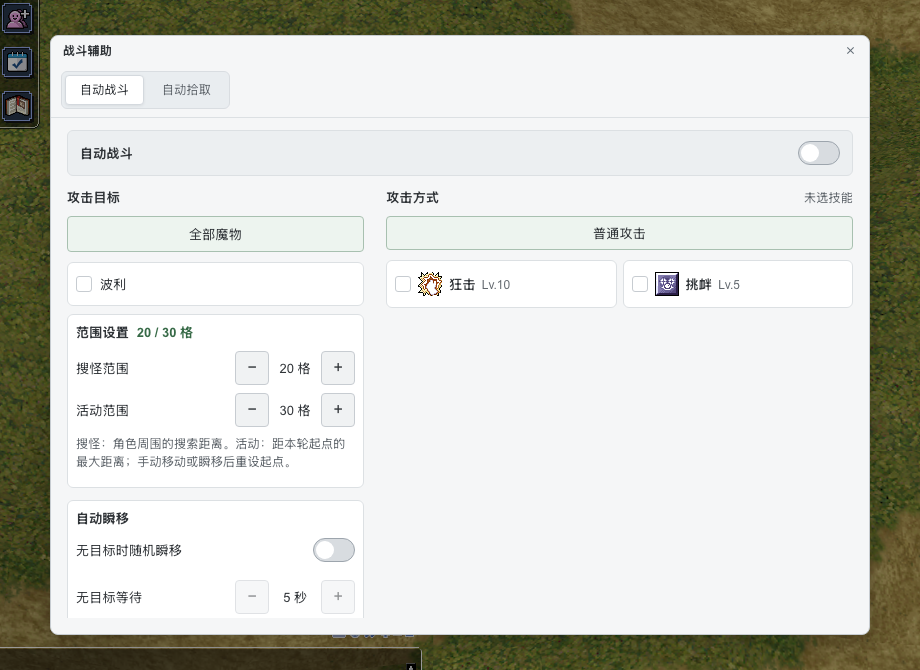
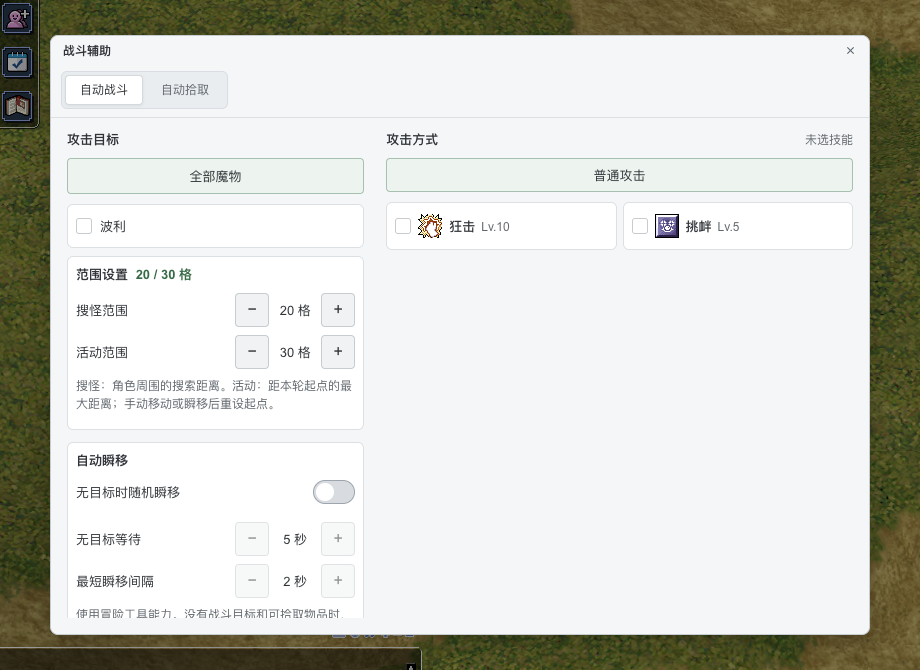
docs(documentation): Update documentation and maintenance guidance
Original commit messages (chronological):

ddd3de36bf8021a4e837648a7eac98ab1073e32b
docs(changelog): Record verified cross-repository fixes

ba3d1663fab05cf2a1b543b88e50dc6b35caf040
docs(changelog): Record desktop combat quick controls

bee957549388415624dabdd9d80a2e7befb103ad
docs(changelog): Record combat icon refinements

304eda198a75fe76affe00c2419151ef8a16eeb9
docs(readme): Refresh the combat settings screenshot

diff --git a/changelog/2026/10/2026-10-23.md b/changelog/2026/10/2026-10-23.md
@@ -1,44 +1,61 @@
 # 2026-10-23
 
+## 新增
+
+- `[root/client/server/api]` 恢复经典初心者教学、职业手册与任务；通过 HAPPYRO_NEW_PLAYER_START=ship|classic 选择新建人类角色的沉船或经典出生点，默认 classic，出生与初始复活点同步，杜兰流程保持独立。
+
 ## 优化
 
+- `[client/gateway]` 新增脚本文字最低对比度环境变量 `CLIENT_SCRIPT_TEXT_MIN_CONTRAST`，默认 4.5、范围 4.5–7；自动修正始终开启，无法达到目标时使用最佳黑白端点。
+- `[root]` 为 52 项客户端环境默认值补齐原生与 Docker 模板、Compose 变量映射和启动配置透传；新增配置使用说明与部署契约检查。
 - `[client/gateway]` 52 项客户端默认设置统一由环境变量配置，PWA 配置定义作为唯一默认值来源；保留浏览器个人设置优先级，初始化、恢复默认和镜头重置读取同一配置。Gateway 动态提供运行时配置，完整前端构建不再覆盖部署值；渲染比例直接读取图形偏好，修复首次进入时默认比例未实际生效的问题。
 - `[client]` 手机和平板的横屏、竖屏默认镜头各拉近一档（15）；手机默认距离改为 95/170，平板改为 125/155，桌面默认值不变。
 - `[client]` 自动战斗默认开启无目标随机瞬移，无目标等待与最短瞬移间隔均默认设为 2 秒。
-
-- `[root]` 为 52 项客户端环境默认值补齐原生与 Docker 模板、Compose 变量映射和启动配置透传；新增配置使用说明与部署契约检查。
-
 - `[client]` 桌面冒险工具的物品与 Zeny 发放改为弹窗输入，沿用亮色风格及同类控件圆角；支持直接输入和加减调整，确认期间禁止重复提交。
 - `[client]` 物品数量与 Zeny 金额分别保留草稿，切换物品、页签及取消弹窗不清空；关闭冒险工具后重置为物品数量 1、Zeny 空值。
 - `[client]` Zeny 加减按钮调整为「-100万」「-10万」「+10万」「+100万」；空值按 0 参与加减，空值、0 及其他无效金额不能发放。
 
 ## 修复
 
-- `[root]` 以经典修炼场作为默认出生并同步部署配置；补齐官方地图别名、训练场安装工具、NPC 导航纠正、任务翻译源及专题资源／无头验收记录。
-
-- `[root]` 为 API 和 Gateway 配置统一 APP_TIMEZONE（默认 Asia/Shanghai），记录 UTC 数据语义与显示时区，不迁移历史数据。
-
+- `[client]` 九职业实机转职发现职业等级回包未同步角色实体，外观重建可能把 Job 1 显示为旧 Job 10；同步实体等级，保持转职后界面与服务端一致。
+- `[root/client/server/api]` 补齐 115 个经典 NPC 与两名转职 NPC 的导航关联，按地图服实测修正可疑男子及 45 项旧导航外观编号；删除学院接待员误删经典任务的遗留逻辑，跨流程交谈后可正常交付波利任务。
+- `[root/client/api]` 最终复审修正官方共享场景地图的支持标记、经典地图预览映射及 new_5-4 中文名；桌面加载图限定当前官方八张资源，声望图片异步加载不再产生 undefined 请求。
+- `[root/client/server/api]` 逐句审校经典训练场及九职业 NPC，统一人名、职业与物品术语，润色问卷结果；修正两份任务表各 22 项说明并同步 NPC 目录。
+- `[server]` 经典新手全分支代码审查，修复跆拳／飞艇／天津町旧出口、任务登记时序、离场任务清理、奖励容量检查及误导对白。
+- `[root/client/server]` 移除覆盖经典教官的旧迁移 NPC 和历史进度兼容段，修正训练等级取消传送、更换手册脱掉全部装备、NPC 与职业测验英文及新手任务名称／击杀提示。
+- `[root/client/server/api]` 训练场完整实机验收补齐 143 个官方假人外观映射和 26 个 SPR/ACT，修复错误魔物外观；个人仓库打开前关闭 NPC 对话，训练 NPC 名称及公会仓库标题统一中文，同步 NPC 目录。
 - `[client]` 修复攻击目标消失时的空引用，隔离战斗/UI 封包回调异常，避免丢失后续半包触发误断线；目标消失后自动战斗继续寻找目标。
-
+- `[root/client/api]` 安装三张训练场官方地图及缺失依赖，修复训练教官传送后缺少 tra_fild01/02/03.rsw 的问题；地图支持判断按官方 RSW 的真实地面引用生成，补齐中文名称和共享小地图。
+- `[client/server/admin/api/gateway]` 统一 UTC 存储和带时区的 API 输出，前端显示时区通过 APP_TIMEZONE 配置，默认 Asia/Shanghai；覆盖角色与账号登录、后台业务记录、客户端期限与日期、截图及 Gateway 状态页，不迁移或兼容历史数据。
+- `[root]` 7 个仓库明确禁止任何兼容处理；补充时区配置与数据语义文档，Docker 为 API 和 Gateway 传入同一显示时区。
 - `[root]` 离线打包在资源复制、资源与模板清单、最终 ZIP 中过滤任意层级的 `._*` 和 `.DS_Store`，避免 macOS 解压处理元数据后造成部署校验缺文件；保留业务文件及原始资源，既有发布包不自动回写。
+
+## 部署与维护
+
+- `[server/api]` 新增 10 项导航、召怪和工具权限环境变量，严格范围校验，支持 Docker / Linux / macOS 部署透传；非空覆盖项在后台提交前拒绝，地图服整批冲突校验，保留原默认值并更新配置文档。
+- `[server]` 新增 `HAPPYRO_AREA_SIZE`、`HAPPYRO_MAX_WALK_PATH` 环境变量，严格校验并在 battle 配置导入后应用；默认视野从 14 调整为 18，行走上限保持 17。同步 Docker、Linux 原生和 macOS 启动配置入口。
+- `[root]` 将训练场修复、验收和资源说明集中到 `docs/development/trainning-ground/` 专题，单列问题修复文档，收录补丁 ZIP、72 个原始资源、两个官方 LUB 及关键验收证据。
 
 ## 验证与待办
 
+- `[root/client/server]` 默认出生切换为经典修炼场；char-server 重建与本机配置生效，新角色出生及保存点均为 new_1-1,53,111。提交前客户端全量 1,867 项通过，相关资源与文档已纳入仓库。
+- `[root/client/server]` 九个一转职业全部通过无头原生 NPC 转职、奖励及重登验证；普通账号的等级技能与材料准备单列，跆拳升一级任务使用真实打怪完成，不直接修改职业或任务进度。职业等级显示修复相关 11 项测试通过，完整 PWA 重建及新角色转职／重登回归通过。
+- `[root/client/server/api]` 最终整体复审客户端 1,865 项、资源生成器 13 项通过；无头逐张渲染 20 张经典地图，检查 176 个 NPC 实时可用性，复验三场教官入口与管理员退出、九职业资格不足分支及 22 项运行任务译文。
+- `[root/client/server/api]` 翻译审查覆盖 10 个脚本、2,277 行对白／菜单；两份任务 LUB 语义校验和安装哈希通过，NPC 目录及完整 PWA 更新，无头抽查五名 NPC 的中文称呼与代表性对白通过。
+- `[root/client/server/api]` 经典新手主线、四个职业任务、六城市跳过分支、30 题测验、五档训练区、正常剑士转职／重登及死亡复活通过无头实机验收；ship/classic 两模式 UI 创建和杜兰出生回归通过，本机恢复 ship，测试账号全部离线。
+- `[client/gateway]` 脚本文字对比度相关客户端 40 项、Gateway 运行时 7 项和部署模板 2 项测试通过；完整 PWA 构建及本机哈希核验通过。有在线角色，Gateway 新配置定义待下次重启加载。
+- `[root]` 客户端默认值部署契约检查 2 项通过，覆盖全部变量在原生/Docker 模板与 Compose 中的同步及启动配置透传。
 - `[client/gateway]` 环境默认值相关客户端测试 79 项、Gateway 测试 33 项、部署模板检查 2 项通过；52 个变量逐项覆盖，非默认值浏览器实测、个人设置与恢复默认、PWA 重建保持运行时响应、本机正式入口均通过。客户端全量 1857 项通过，2 项既有训练场资源数量断言不匹配另行保留记录。
+- `[root/client/server/api]` 三场真实 NPC 入口、六侧门、重登、12 处对白、三台清扫机器人、24 组伤害和个人／公会仓库分支验收通过；独立测试会话已关闭，临时维护权限已撤销。
 - `[client]` 镜头相关 34 项测试通过；完整 PWA 构建、Gateway 哈希核验通过，手机布局实际横竖屏切换验证距离为 95/170。
 - `[client]` 瞬移默认值变更的 82 项相关测试通过；完整 `--all` PWA 构建及本机 Gateway 产物哈希核验通过。
 - `[client]` 断线修复相关 10 个测试文件、129 项测试通过，覆盖目标缺失后继续换怪及回调抛错后的所有半包拆分位置；完整 `--all` PWA 构建和 Gateway 哈希核验通过，手机布局浏览器故障注入后连接与自动战斗均保持正常。
-
-- `[root]` 客户端默认值部署契约检查 2 项通过，覆盖全部变量在原生/Docker 模板与 Compose 中的同步及启动配置透传。
-
+- `[root/client/api]` 训练场 46 个补充文件安装后哈希一致；三张地图通过无头浏览器实际渲染，未发生资源 404 或页面错误。
 - `[client]` 发放、数量控件、确认框与窗口生命周期相关测试通过；完整 `--all` PWA 构建通过，并核对本机 Gateway 提供的新产物哈希。
 - `[root]` 部署工具测试 34 项通过、5 项集成测试跳过；新增回归覆盖源资源不被修改、元数据不进入清单及 ZIP、解压后部署校验通过。
 
-## 配置更新
+## 桌面战斗辅助
 
-- `[client/gateway]` 新增脚本文字最低对比度环境变量 `CLIENT_SCRIPT_TEXT_MIN_CONTRAST`，默认 4.5、范围 4.5–7；自动修正始终开启，无法达到目标时使用最佳黑白端点。
-- `[server]` 新增 `HAPPYRO_AREA_SIZE`、`HAPPYRO_MAX_WALK_PATH` 环境变量，严格校验并在 battle 配置导入后应用；默认视野从 14 调整为 18，行走上限保持 17。同步 Docker、Linux 原生和 macOS 启动配置入口。
+- `[client]` 桌面右下角新增自动战斗、自动拾取和设置三个常驻按钮，独立启停并显示选中状态与悬停提示；设置窗口仅保留参数，移除重复总开关，拾取保存失败明确提示。
 
-## 玩法环境配置
-
-- `[server/api]` 新增 10 项导航、召怪和工具权限环境变量，严格范围校验，支持 Docker / Linux / macOS 部署透传；非空覆盖项在后台提交前拒绝，地图服整批冲突校验，保留原默认值并更新配置文档。
+- `[client]` 移除桌面自动战斗和拾取按钮的状态点，战斗图标替换为 Lucide 线框双剑，拾取图标保持原样；开启状态继续通过背景和边框表达。

diff --git a/docs/development/readme-images/capture.md b/docs/development/readme-images/capture.md
@@ -118,9 +118,9 @@ v0.5.0 离线包空库初始化会在 `happyro/happyro` 第一角色位创建同
 | --- | --- |
 | 浏览器预设 | 电脑游戏 1280 × 800，倍率 1 |
 | 地图 | `prt_fild08 (140, 322)` |
-| 功能入口 | 右下角战斗辅助按钮（`.combat-launcher`） |
+| 功能入口 | 右下角三个按钮中的设置齿轮（`[data-settings]`），不要点击战斗或拾取开关 |
 | 页签 | 自动战斗 |
-| 截图状态 | 自动战斗关闭；全部魔物、普通攻击；搜索 20 格、活动 30 格；无目标随机传送关闭 |
+| 截图状态 | 自动战斗关闭；全部魔物、普通攻击；搜索 20 格、活动 30 格；无目标随机传送关闭；等待 5 秒、最短间隔 2 秒 |
 | 裁剪 | `x: 180, y: 65, width: 920, height: 670` |
 | 截图格式 | PNG |
 
@@ -168,3 +168,11 @@ await page.screenshot({
 - 邮件示例由罗安发给自己，标题“冒险补给”，附一瓶红色药水；截图后领取回背包。写信示例截图后取消草稿。准备示例通过本机冒险工具接口给罗安发放 10,000 Zeny 支付邮费，给配合角色发放 10 瓶蓝色药水；不更改职业与技能。
 - 截图前收起聊天预览，等待获得物品提示和 toast 消失；不要把临时反馈覆盖在正式配图上。
 - 转职定位图、流程图及原生 NPC 场景截图不受本次移动端菜单优化影响，保持原图。
+
+## 2026-10-23 桌面战斗辅助配图更新
+
+仅重拍 `happyro-combat.png`，移除窗口内已删除的自动战斗总开关。仍使用罗安（99 / 50 剑士），`prt_fild08 (140,322)`、1280 × 800、倍率 1、裁剪 `(180,65,920,670)`；本次镜头实测为 125，窗口位置 `(230,100)`、尺寸 820 × 600。
+
+保持全部魔物、普通攻击、仅波利候选、狂击 Lv.10 与挑衅 Lv.5 未勾选、搜索 20 / 活动 30、随机瞬移关闭、等待 5 秒。最短间隔为 2 秒；删除总开关后下方内容自然上移，原先裁剪外的间隔行现在可见。等待真实附近魔物自然变化后取图，不编辑 DOM 或怪物数据。
+
+根 README 与文档站同步同一张 920 × 670 PNG，并更新 `sources.json` 的来源、构图参数、构建号和哈希。未受影响的其余四张宣传图、移动端教程图及攻略图保持原文件。测试后恢复角色原位置和临时设置并下线。
